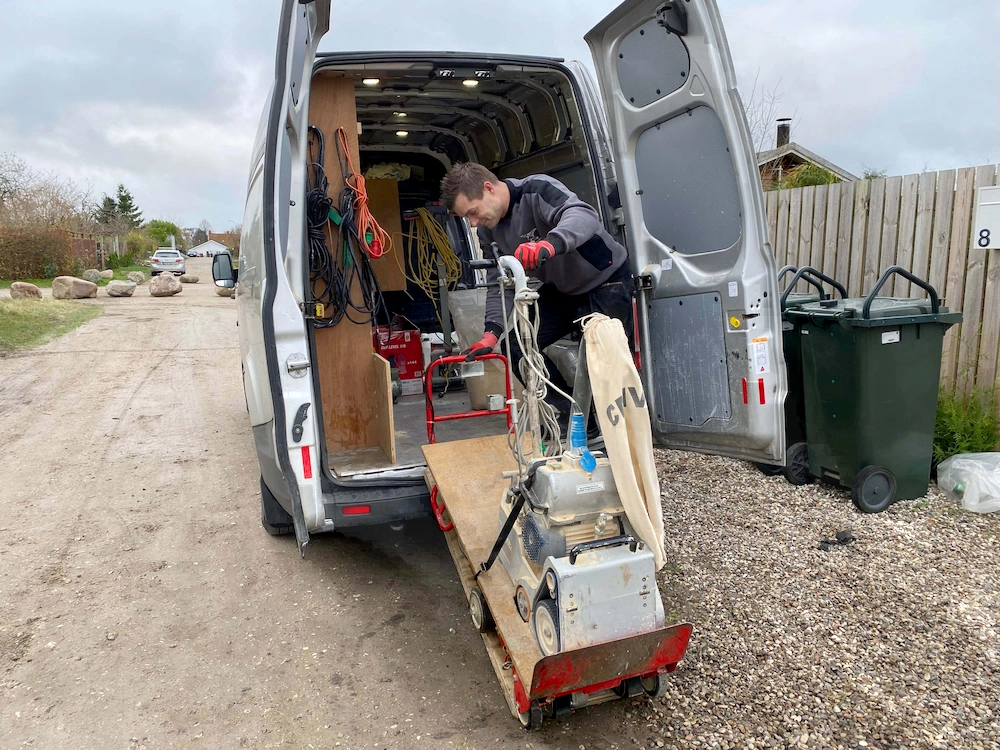
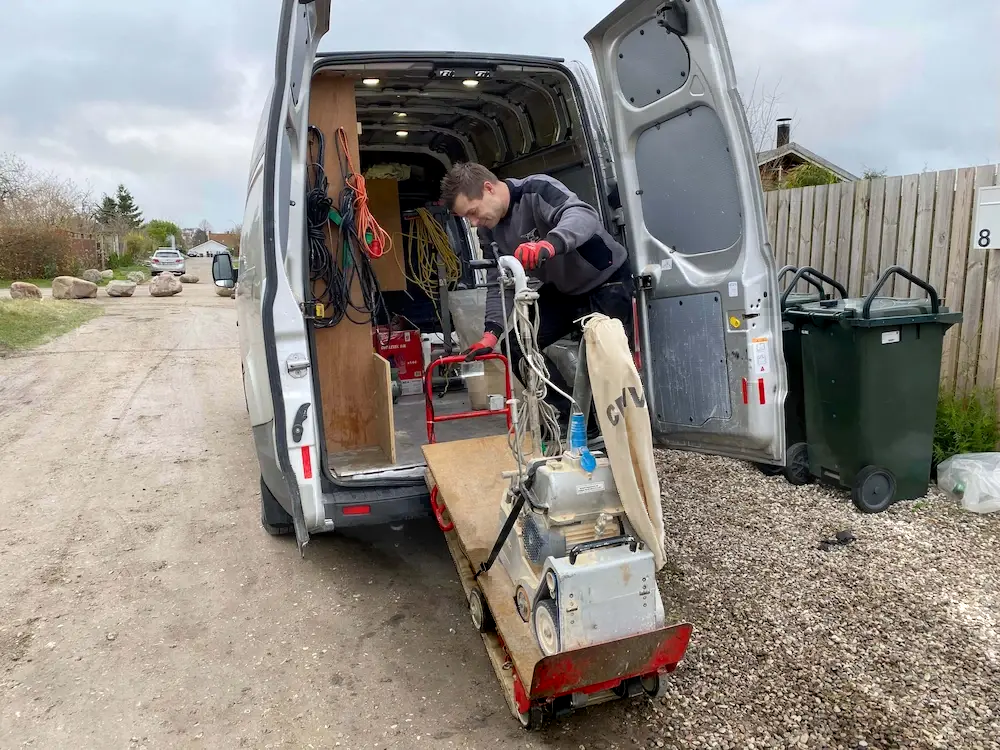
billeder beskåret yderligere

diff --git a/index.html b/index.html
@@ -34,7 +34,7 @@
     <main>
       <section id="first_section">
         <div class="forside">
-          <img src="webp_billeder/vaerksted.webp" alt="vaerksted" />
+          <img src="jpg_billede/vaerksted.jpg" alt="vaerksted" />
           <h1>En selvstændig gulvlægger</h1>
         </div>
       </section>
